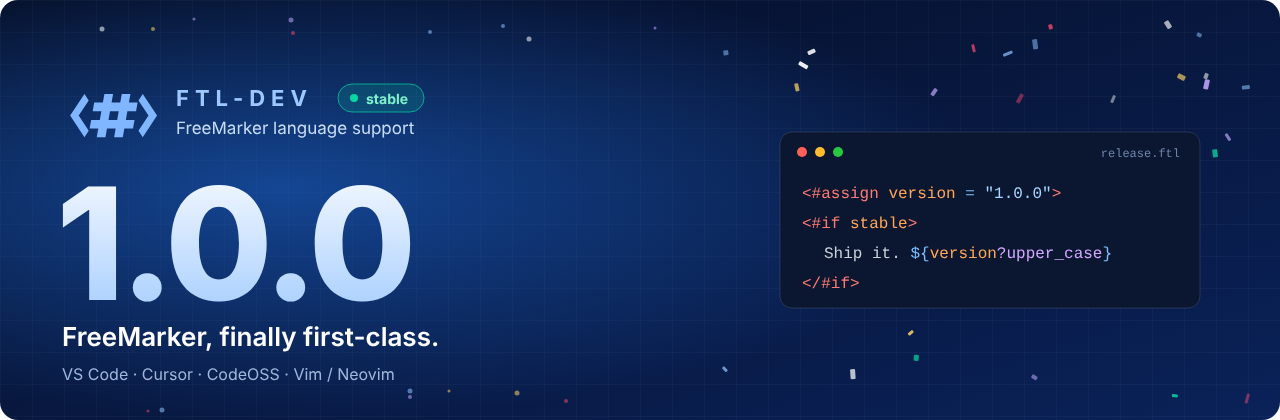
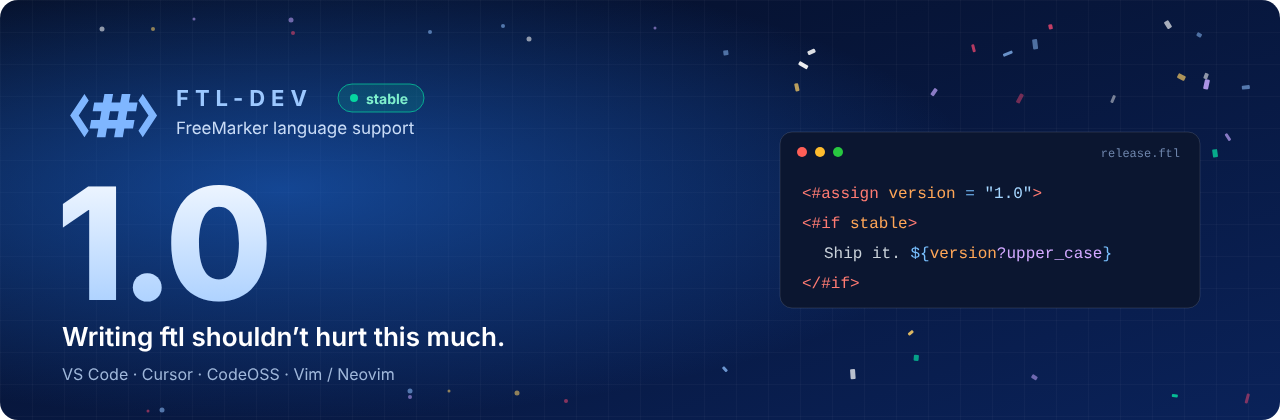
Release 1.0.1: rewrite site and README copy

Changed region(s): [[0.2188, 0.4333, 0.3438, 0.7119], [0.0312, 0.7738, 0.4062, 0.8357], [0.7812, 0.4333, 0.8438, 0.4643]]

diff --git a/site/src/index.html b/site/src/index.html
@@ -3,10 +3,10 @@
 <head>
 <meta charset="utf-8">
 <meta name="viewport" content="width=device-width, initial-scale=1">
-<title>ftl-dev — FreeMarker language support</title>
-<meta name="description" content="ftl-dev {{version}} is stable: syntax highlighting, navigation, diagnostics and ftldoc for FreeMarker in VS Code, Cursor, CodeOSS and Vim / Neovim.">
-<meta property="og:title" content="ftl-dev {{version}} — FreeMarker, finally first-class">
-<meta property="og:description" content="Highlighting, navigation, diagnostics and docs for .ftl files in VS Code, Cursor, CodeOSS and Vim / Neovim.">
+<title>ftl-dev · FreeMarker for VS Code, Cursor and Vim</title>
+<meta name="description" content="FreeMarker (.ftl) support for VS Code, Cursor, CodeOSS and Vim / Neovim: highlighting, go to definition, diagnostics and ftldoc.">
+<meta property="og:title" content="ftl-dev {{version}}: FreeMarker support for VS Code, Cursor and Vim">
+<meta property="og:description" content="Highlighting, go to definition, diagnostics and ftldoc for .ftl files.">
 <meta property="og:type" content="website">
 <meta property="og:image" content="assets/og.png">
 <meta name="twitter:card" content="summary_large_image">
@@ -101,7 +101,7 @@ img { max-width: 100%; }
 
 /* Korean: break between words, not inside them */
 [data-lang="ko"] body { word-break: keep-all; overflow-wrap: break-word; }
-[data-lang="ko"] h1 { font-size: clamp(38px, 5vw, 54px); line-height: 1.12; }
+[data-lang="ko"] h1 { font-size: clamp(34px, 4.4vw, 48px); line-height: 1.18; }
 
 /* language switch: show only the active language */
 [data-lang="en"] [lang="ko"], [data-lang="ko"] [lang="en"] { display: none !important; }
@@ -148,7 +148,7 @@ img { max-width: 100%; }
   padding: 7px 12px; border-radius: 999px;
 }
 .pill .dot { width: 7px; height: 7px; border-radius: 50%; background: var(--accent); box-shadow: 0 0 0 4px color-mix(in srgb, var(--accent) 25%, transparent); }
-h1 { font-size: clamp(40px, 6vw, 64px); line-height: 1.04; letter-spacing: -.035em; margin: 20px 0 18px; font-weight: 800; }
+h1 { font-size: clamp(38px, 5.4vw, 58px); line-height: 1.04; letter-spacing: -.035em; margin: 20px 0 18px; font-weight: 800; }
 h1 .grad { background: linear-gradient(120deg, var(--brand) 10%, var(--accent) 95%); -webkit-background-clip: text; background-clip: text; color: transparent; }
 .lede { font-size: 19px; color: var(--fg-muted); margin: 0 0 28px; max-width: 34em; }
 .ctas { display: flex; flex-wrap: wrap; gap: 10px; }
@@ -328,19 +328,19 @@ footer a { color: var(--fg-muted); }
   <section class="hero">
     <div class="wrap">
       <div>
-        <span class="pill"><span class="dot"></span><span lang="en">v{{version}} is here — first stable release</span><span lang="ko">v{{version}} 출시 — 첫 안정 버전</span></span>
-        <h1><span lang="en">FreeMarker,<br><span class="grad">finally first&#8209;class.</span></span><span lang="ko">FreeMarker도 이제<br><span class="grad">제대로 된 언어처럼.</span></span></h1>
-        <p class="lede" lang="en">Highlighting that reads, Ctrl+click navigation, diagnostics that catch real mistakes and ftldoc in every hover. For VS Code, Cursor, CodeOSS and Vim / Neovim.</p>
-        <p class="lede" lang="ko">읽기 좋은 하이라이팅, Ctrl+클릭 이동, 진짜 실수만 잡는 진단, 호버마다 보이는 ftldoc까지. VS Code, Cursor, CodeOSS, Vim / Neovim에서.</p>
+        <span class="pill"><span class="dot"></span><span lang="en">v{{version}} · 1.0 is out</span><span lang="ko">v{{version}} · 1.0 나왔습니다</span></span>
+        <h1><span lang="en">Writing ftl shouldn't <span class="grad">hurt this much.</span></span><span lang="ko">ftl 짜는 게 <span class="grad">이렇게까지 괴로울 일인가요?</span></span></h1>
+        <p class="lede" lang="en">So I built the extension I wanted: proper highlighting, Ctrl+click to definitions, errors caught before render time, ftldoc on hover, and indent that follows FTL blocks. Runs in VS Code, Cursor and CodeOSS. Vim / Neovim has its own plugin.</p>
+        <p class="lede" lang="ko">그래서 직접 만들었습니다. 제대로 된 하이라이팅, Ctrl+클릭으로 정의 이동, 렌더링 전에 잡아 주는 문법 오류, 호버로 보는 ftldoc, FTL 블록에 맞는 들여쓰기. VS Code, Cursor, CodeOSS에서 돌아가고 Vim / Neovim은 플러그인이 따로 있습니다.</p>
         <div class="ctas">
           <a class="btn primary" href="https://marketplace.visualstudio.com/items?itemName=nathan-0910.ftl-dev">
             <svg viewBox="0 0 16 16" aria-hidden="true"><path fill="currentColor" d="M8 1a.75.75 0 0 1 .75.75v6.69l2.22-2.22a.75.75 0 1 1 1.06 1.06l-3.5 3.5a.75.75 0 0 1-1.06 0l-3.5-3.5a.75.75 0 0 1 1.06-1.06l2.22 2.22V1.75A.75.75 0 0 1 8 1zM2.75 12.5a.75.75 0 0 0 0 1.5h10.5a.75.75 0 0 0 0-1.5H2.75z"/></svg>
             <span lang="en">VS Code Marketplace</span><span lang="ko">VS Code 마켓플레이스</span>
           </a>
-          <a class="btn" href="https://open-vsx.org/extension/nathan-0910/ftl-dev"><span lang="en">Open VSX (Cursor, CodeOSS)</span><span lang="ko">Open VSX (Cursor, CodeOSS)</span></a>
+          <a class="btn" href="https://open-vsx.org/extension/nathan-0910/ftl-dev">Open VSX (Cursor, CodeOSS)</a>
           <a class="btn" href="https://github.com/DevNathan/ftl-dev.vim">Vim / Neovim</a>
         </div>
-        <p class="hero-note"><span lang="en">Free and open source · Apache-2.0 · extension id</span><span lang="ko">무료 오픈소스 · Apache-2.0 · 익스텐션 ID</span> <code>nathan-0910.ftl-dev</code></p>
+        <p class="hero-note"><span lang="en">Free, Apache-2.0. Extension id</span><span lang="ko">무료, Apache-2.0. 익스텐션 ID</span> <code>nathan-0910.ftl-dev</code></p>
       </div>
       <div class="window" role="img" aria-label="FTL code highlighted by ftl-dev">
         <div class="window-bar"><i></i><i></i><i></i><span>greeting.ftl</span></div>
@@ -351,13 +351,12 @@ footer a { color: var(--fg-muted); }
 
   <section class="alt" id="stable">
     <div class="wrap">
-      <p class="eyebrow"><span lang="en">What 1.0 means</span><span lang="ko">1.0이 뜻하는 것</span></p>
-      <h2><span lang="en">Stable enough to build your workflow on.</span><span lang="ko">이제 믿고 써도 됩니다.</span></h2>
-      <p class="section-lede" lang="en">Forty-one plans, hundreds of tests and a zero-false-positive rule for default diagnostics got us here. From 1.0.0 on, these only change in a major version:</p>
-      <p class="section-lede" lang="ko">41개의 계획, 수백 개의 테스트, 그리고 "정상 문법에는 기본 진단을 띄우지 않는다"는 원칙 끝에 여기까지 왔습니다. 1.0.0부터 아래 항목은 메이저 버전에서만 바뀝니다.</p>
+      <h2><span lang="en">What 1.0 means</span><span lang="ko">1.0이 되면서 달라진 점</span></h2>
+      <p class="section-lede" lang="en">From 1.0 on I won't casually rename the things below. If one of them has to change, it comes with a major version bump and a note in the changelog first.</p>
+      <p class="section-lede" lang="ko">1.0부터는 아래 것들을 함부로 안 바꿉니다. 바꿔야 할 일이 생기면 메이저 버전 올리고, 변경 이력에 먼저 적어 둘게요.</p>
       <div class="stable-grid">
         <div class="stable-item"><b><span lang="en">Extension &amp; language id</span><span lang="ko">익스텐션·언어 ID</span></b><p><code>nathan-0910.ftl-dev</code> · <code>freemarker</code></p></div>
-        <div class="stable-item"><b><span lang="en">File types &amp; grammar</span><span lang="ko">파일 형식·문법 scope</span></b><p><code>.ftl</code> <code>.ftlh</code> <code>.ftlx</code> · <code>text.html.freemarker</code></p></div>
+        <div class="stable-item"><b><span lang="en">File types &amp; grammar scope</span><span lang="ko">파일 확장자·문법 scope</span></b><p><code>.ftl</code> <code>.ftlh</code> <code>.ftlx</code> · <code>text.html.freemarker</code></p></div>
         <div class="stable-item"><b><span lang="en">Settings keys</span><span lang="ko">설정 키</span></b><p><code>ftl-dev.strictVariables</code>, <code>ftl-dev.dataModel</code>, …</p></div>
         <div class="stable-item"><b><span lang="en">Project file</span><span lang="ko">프로젝트 파일</span></b><p><code>.ftl-data-model.json</code></p></div>
       </div>
@@ -366,58 +365,57 @@ footer a { color: var(--fg-muted); }
 
   <section id="features">
     <div class="wrap">
-      <p class="eyebrow"><span lang="en">Features</span><span lang="ko">기능</span></p>
-      <h2><span lang="en">Everything the other FTL extensions forgot.</span><span lang="ko">다른 FTL 익스텐션이 빼먹은 것들, 전부.</span></h2>
-      <p class="section-lede" lang="en">Built by someone who writes FreeMarker every day and got tired of grepping for macro definitions.</p>
-      <p class="section-lede" lang="ko">매일 FreeMarker를 쓰다가 매크로 정의를 grep으로 찾는 데 지친 사람이 만들었습니다.</p>
+      <h2><span lang="en">Features</span><span lang="ko">기능</span></h2>
+      <p class="section-lede" lang="en">Things I kept wishing for while writing ftl and couldn't find in any other extension.</p>
+      <p class="section-lede" lang="ko">ftl 짜면서 계속 아쉬웠는데 다른 익스텐션엔 없던 것들입니다.</p>
       <div class="features">
         <article class="feature">
           <div class="ico"><svg viewBox="0 0 20 20" aria-hidden="true"><path fill="none" stroke="currentColor" stroke-width="1.7" stroke-linecap="round" d="M3 5h9M3 10h14M3 15h7"/></svg></div>
-          <h3><span lang="en">Highlighting that reads</span><span lang="ko">읽히는 하이라이팅</span></h3>
-          <p lang="en">Directives, built-ins, <code>${…}</code> inside strings, raw strings, square-bracket syntax and HTML, all colored correctly.</p>
-          <p lang="ko">디렉티브, built-in, 문자열 속 <code>${…}</code>, raw 문자열, 대괄호 문법, HTML까지 제대로 칠합니다.</p>
+          <h3><span lang="en">Syntax highlighting</span><span lang="ko">하이라이팅</span></h3>
+          <p lang="en">Directives, built-ins, <code>${…}</code> inside strings, raw strings, square-bracket syntax and the HTML around them all get the right colors. No more squinting to see where a tag ends.</p>
+          <p lang="ko">디렉티브, built-in, 문자열 안의 <code>${…}</code>, raw 문자열, 대괄호 문법, 주변 HTML까지 제대로 칠합니다. 태그가 어디서 끝나는지 눈으로 더듬을 필요 없어요.</p>
         </article>
         <article class="feature">
           <div class="ico"><svg viewBox="0 0 20 20" aria-hidden="true"><path fill="none" stroke="currentColor" stroke-width="1.7" stroke-linecap="round" stroke-linejoin="round" d="M8 4H4v12h12v-4M11 3h6v6M17 3l-8 8"/></svg></div>
           <h3><span lang="en">Go to definition &amp; rename</span><span lang="ko">정의로 이동·이름 바꾸기</span></h3>
-          <p lang="en">Ctrl+click through macros, functions, variables and <code>#import</code> namespaces. F2 renames, Ctrl+T finds any symbol in the workspace.</p>
-          <p lang="ko">매크로·함수·변수·<code>#import</code> 네임스페이스로 Ctrl+클릭 이동. F2로 이름 바꾸기, Ctrl+T로 워크스페이스 심볼 검색.</p>
+          <p lang="en">Ctrl+click a macro, function, variable or <code>#import</code> namespace and you're at the declaration. F2 renames, Ctrl+T searches the whole workspace.</p>
+          <p lang="ko">매크로, 함수, 변수, <code>#import</code> 네임스페이스에서 Ctrl+클릭하면 선언으로 갑니다. 이름은 F2로 바꾸고, 워크스페이스 전체 검색은 Ctrl+T.</p>
         </article>
         <article class="feature">
           <div class="ico"><svg viewBox="0 0 20 20" aria-hidden="true"><path fill="none" stroke="currentColor" stroke-width="1.7" stroke-linecap="round" stroke-linejoin="round" d="M4 4h12v9H8l-4 3z"/></svg></div>
-          <h3><span lang="en">Completion &amp; signature help</span><span lang="ko">자동완성·시그니처 도움말</span></h3>
-          <p lang="en">Directives and built-ins up to FreeMarker 2.3.35, named directive parameters, and parameter hints for your own <code>#function</code> / <code>#macro</code>.</p>
-          <p lang="ko">FreeMarker 2.3.35까지의 디렉티브와 built-in, 디렉티브 이름 인자, 직접 만든 <code>#function</code> / <code>#macro</code> 인자 힌트까지.</p>
+          <h3><span lang="en">Completion &amp; parameter hints</span><span lang="ko">자동완성·인자 힌트</span></h3>
+          <p lang="en">Directives and built-ins up to FreeMarker 2.3.35, directive parameters, and parameter hints for your own <code>#function</code> / <code>#macro</code>.</p>
+          <p lang="ko">FreeMarker 2.3.35까지의 디렉티브와 built-in, 디렉티브 인자, 직접 만든 <code>#function</code> / <code>#macro</code>의 인자 힌트가 뜹니다.</p>
         </article>
         <article class="feature">
           <div class="ico"><svg viewBox="0 0 20 20" aria-hidden="true"><path fill="none" stroke="currentColor" stroke-width="1.7" stroke-linecap="round" stroke-linejoin="round" d="M10 3l8 14H2zM10 8v4M10 14.5v.01"/></svg></div>
-          <h3><span lang="en">Diagnostics that don't cry wolf</span><span lang="ko">헛경고 없는 진단</span></h3>
-          <p lang="en">Unclosed tags, mismatched blocks, <code>#switch</code> mistakes, deprecated directives. Valid FTL never gets a red line.</p>
-          <p lang="ko">닫히지 않은 태그, 짝이 안 맞는 블록, <code>#switch</code> 실수, deprecated 디렉티브. 올바른 FTL엔 빨간 줄이 생기지 않습니다.</p>
+          <h3><span lang="en">Diagnostics</span><span lang="ko">문법 검사</span></h3>
+          <p lang="en">Unclosed tags, mismatched blocks, <code>#switch</code> mistakes, deprecated directives. If valid FTL gets a red line, that's a bug. Please tell me.</p>
+          <p lang="ko">안 닫힌 태그, 짝 안 맞는 블록, <code>#switch</code> 실수, deprecated 디렉티브를 잡습니다. 멀쩡한 FTL에 빨간 줄이 뜨면 버그니까 알려 주세요.</p>
         </article>
         <article class="feature">
           <div class="ico"><svg viewBox="0 0 20 20" aria-hidden="true"><path fill="none" stroke="currentColor" stroke-width="1.7" stroke-linecap="round" stroke-linejoin="round" d="M5 3h7l3 3v11H5zM8 9h5M8 12h5"/></svg></div>
-          <h3><span lang="en">ftldoc</span><span lang="ko">ftldoc 문서 주석</span></h3>
-          <p lang="en">Javadoc / JSDoc-style comments with <code>@param</code>, <code>@return</code>, <code>@deprecated</code>, <code>@example</code> in Hover, Signature Help and completion.</p>
-          <p lang="ko"><code>@param</code>, <code>@return</code>, <code>@deprecated</code>, <code>@example</code> 등 Javadoc / JSDoc 스타일 주석을 호버·시그니처 도움말·자동완성에 보여 줍니다.</p>
+          <h3>ftldoc</h3>
+          <p lang="en">Write Javadoc-style comments (<code>@param</code>, <code>@return</code>, <code>@deprecated</code>, <code>@example</code>, …) and they show up in hover, parameter hints and completion.</p>
+          <p lang="ko"><code>@param</code>, <code>@return</code>, <code>@deprecated</code>, <code>@example</code> 같은 Javadoc식 주석을 달면 호버, 인자 힌트, 자동완성에 그대로 나옵니다.</p>
         </article>
         <article class="feature">
           <div class="ico"><svg viewBox="0 0 20 20" aria-hidden="true"><path fill="none" stroke="currentColor" stroke-width="1.7" stroke-linecap="round" stroke-linejoin="round" d="M7 5L3 10l4 5M13 5l4 5-4 5"/></svg></div>
-          <h3><span lang="en">Typing that keeps up</span><span lang="ko">손이 덜 가는 편집</span></h3>
-          <p lang="en">Auto-close for directives, FTL-aware indent, and linked editing: rename <code>&lt;#if&gt;</code> and <code>&lt;/#if&gt;</code> follows.</p>
-          <p lang="ko">디렉티브 자동 닫기, FTL식 들여쓰기, 연결 편집: <code>&lt;#if&gt;</code>를 고치면 <code>&lt;/#if&gt;</code>도 따라 바뀝니다.</p>
+          <h3><span lang="en">Closing tags &amp; indent</span><span lang="ko">태그 닫기·들여쓰기</span></h3>
+          <p lang="en">Closing tags get filled in for you, indent follows FTL blocks, and renaming <code>&lt;#if&gt;</code> renames its <code>&lt;/#if&gt;</code> too.</p>
+          <p lang="ko">닫는 태그는 알아서 채워 주고, 들여쓰기는 FTL 블록 기준으로 맞춥니다. <code>&lt;#if&gt;</code> 이름을 고치면 <code>&lt;/#if&gt;</code>도 같이 바뀝니다.</p>
         </article>
         <article class="feature">
           <div class="ico"><svg viewBox="0 0 20 20" aria-hidden="true"><path fill="none" stroke="currentColor" stroke-width="1.7" stroke-linecap="round" d="M4 5h3M4 10h3M4 15h3M10 5h6M10 10h6M10 15h6"/></svg></div>
           <h3><span lang="en">Outline &amp; references</span><span lang="ko">아웃라인·참조 찾기</span></h3>
-          <p lang="en">Document outline, find all references, semantic tokens for locals and parameters, optional strict-variable checks.</p>
-          <p lang="ko">문서 아웃라인, 모든 참조 찾기, 지역 변수·인자 시맨틱 토큰, 선택형 엄격 변수 검사.</p>
+          <p lang="en">Document outline, find all references, separate colors for locals and parameters. Turn on strict mode if you want warnings for undeclared variables.</p>
+          <p lang="ko">문서 아웃라인, 모든 참조 찾기, 지역 변수와 인자 구분 색. 선언 안 된 변수까지 경고받고 싶으면 strict 모드를 켜세요.</p>
         </article>
         <article class="feature">
           <div class="ico"><svg viewBox="0 0 20 20" aria-hidden="true"><path fill="none" stroke="currentColor" stroke-width="1.7" stroke-linecap="round" stroke-linejoin="round" d="M3 4h14v10H3zM7 17h6"/></svg></div>
           <h3>Vim / Neovim</h3>
-          <p lang="en">A native Vim plugin for syntax, indent and closing tags. Neovim can also run the ftl-dev language server for Hover, completion and diagnostics.</p>
-          <p lang="ko">문법·들여쓰기·태그 닫기는 Vim 플러그인으로. Neovim에서는 ftl-dev 언어 서버를 붙여 호버·자동완성·진단도 쓸 수 있습니다.</p>
+          <p lang="en">A separate plugin, <a href="https://github.com/DevNathan/ftl-dev.vim">ftl-dev.vim</a>, handles syntax, indent and closing tags. On Neovim you can also hook up the ftl-dev language server for hover, completion and diagnostics.</p>
+          <p lang="ko">문법, 들여쓰기, 태그 닫기는 별도 플러그인 <a href="https://github.com/DevNathan/ftl-dev.vim">ftl-dev.vim</a>이 맡습니다. Neovim이면 ftl-dev 언어 서버를 붙여서 호버, 자동완성, 진단도 쓸 수 있어요.</p>
         </article>
       </div>
     </div>
@@ -426,15 +424,14 @@ footer a { color: var(--fg-muted); }
   <section class="alt" id="diagnostics">
     <div class="wrap split rev">
       <div>
-        <p class="eyebrow"><span lang="en">Hover &amp; diagnostics</span><span lang="ko">호버와 진단</span></p>
-        <h2><span lang="en">Know before FreeMarker tells you.</span><span lang="ko">FreeMarker가 터지기 전에 먼저 압니다.</span></h2>
-        <p class="section-lede" lang="en">Errors that FreeMarker would only throw at render time show up as you type, in the same words a teammate would use.</p>
-        <p class="section-lede" lang="ko">렌더링할 때야 터질 에러를 타이핑하는 순간 보여 줍니다. 동료가 말해 주듯 알아듣기 쉬운 말로요.</p>
+        <h2><span lang="en">Diagnostics and hover</span><span lang="ko">진단과 호버</span></h2>
+        <p class="section-lede" lang="en">Some mistakes FreeMarker only reports when it renders the template. These show up while you type.</p>
+        <p class="section-lede" lang="ko">FreeMarker가 렌더링할 때가 돼서야 던지는 에러가 있습니다. 그런 걸 치는 동안 바로 보여 줍니다.</p>
         <ul class="checks">
-          <li lang="en"><span><b>Matches the engine</b>: mixing <code>#on</code> and <code>#case</code> is a ParseException in FreeMarker 2.3.34, and an error here.</span></li>
-          <li lang="ko"><span><b>엔진과 같은 판단</b>: <code>#on</code>과 <code>#case</code>를 섞으면 FreeMarker 2.3.34에서 ParseException이고, 여기서도 에러입니다.</span></li>
-          <li lang="en"><span><b>Docs where you need them</b>: hover a call to see its ftldoc, parameters and defaults.</span></li>
-          <li lang="ko"><span><b>필요한 자리에 문서</b>: 호출부에 마우스를 올리면 ftldoc, 인자, 기본값이 보입니다.</span></li>
+          <li lang="en"><span>Mixing <code>#on</code> and <code>#case</code> in one <code>#switch</code> is a ParseException in FreeMarker 2.3.34. Here you get a red line before you even save.</span></li>
+          <li lang="ko"><span><code>#switch</code> 하나에 <code>#on</code>과 <code>#case</code>를 섞으면 FreeMarker 2.3.34에선 ParseException입니다. 여기선 저장하기도 전에 빨간 줄이 뜹니다.</span></li>
+          <li lang="en"><span>Hover a call to see its ftldoc, parameters and defaults.</span></li>
+          <li lang="ko"><span>호출하는 곳에 마우스를 올리면 ftldoc, 인자, 기본값이 보입니다.</span></li>
         </ul>
       </div>
       <div class="stack">
@@ -462,27 +459,26 @@ footer a { color: var(--fg-muted); }
 
   <section id="install">
     <div class="wrap">
-      <p class="eyebrow"><span lang="en">Install</span><span lang="ko">설치</span></p>
-      <h2><span lang="en">Thirty seconds, tops.</span><span lang="ko">30초면 끝.</span></h2>
-      <p class="section-lede" lang="en">Pick your editor. Open any <code>.ftl</code>, <code>.ftlh</code> or <code>.ftlx</code> file and you're done.</p>
-      <p class="section-lede" lang="ko">에디터만 고르세요. <code>.ftl</code>, <code>.ftlh</code>, <code>.ftlx</code> 파일을 열면 끝입니다.</p>
+      <h2><span lang="en">Install</span><span lang="ko">설치</span></h2>
+      <p class="section-lede" lang="en">Not much to it. Install it in your editor and open a <code>.ftl</code>, <code>.ftlh</code> or <code>.ftlx</code> file.</p>
+      <p class="section-lede" lang="ko">할 게 뭐 있겠습니까. 에디터에 설치하고 <code>.ftl</code>, <code>.ftlh</code>, <code>.ftlx</code> 파일을 열면 됩니다.</p>
       <div class="install-grid">
         <div class="install">
           <h3>VS Code</h3>
-          <p lang="en">From the Visual Studio Marketplace, or run in Quick Open (Ctrl+P):</p>
-          <p lang="ko">Visual Studio 마켓플레이스에서 받거나, Quick Open(Ctrl+P)에서 실행:</p>
+          <p lang="en">Get it from the Visual Studio Marketplace, or paste this into Quick Open (Ctrl+P):</p>
+          <p lang="ko">Visual Studio 마켓플레이스에서 받거나, Quick Open(Ctrl+P)에 이걸 붙여 넣으세요.</p>
           <div class="cmd"><code>ext install nathan-0910.ftl-dev</code><button class="copy" type="button">Copy</button></div>
         </div>
         <div class="install">
           <h3>Cursor · CodeOSS</h3>
-          <p lang="en">From Open VSX: search <b>FreeMarker (ftl-dev)</b> in the Extensions view, or:</p>
-          <p lang="ko">Open VSX에서: 확장 보기에서 <b>FreeMarker (ftl-dev)</b>를 검색하거나:</p>
+          <p lang="en">It's on Open VSX. Search <b>FreeMarker (ftl-dev)</b> in the Extensions view, or:</p>
+          <p lang="ko">Open VSX에 있습니다. 확장 탭에서 <b>FreeMarker (ftl-dev)</b>를 검색하거나:</p>
           <div class="cmd"><code>code-oss --install-extension nathan-0910.ftl-dev</code><button class="copy" type="button">Copy</button></div>
         </div>
         <div class="install">
           <h3>Vim / Neovim</h3>
-          <p lang="en">Install the plugin with your plugin manager, e.g. vim-plug:</p>
-          <p lang="ko">플러그인 매니저로 설치하세요. 예: vim-plug</p>
+          <p lang="en">Use your plugin manager. With vim-plug:</p>
+          <p lang="ko">플러그인 매니저로 설치하세요. vim-plug라면:</p>
           <div class="cmd"><code>Plug 'DevNathan/ftl-dev.vim'</code><button class="copy" type="button">Copy</button></div>
         </div>
       </div>
@@ -491,13 +487,13 @@ footer a { color: var(--fg-muted); }
 
   <section class="alt thanks">
     <div class="wrap">
-      <h2><span lang="en">Thanks for writing FreeMarker with us. 🎉</span><span lang="ko">FreeMarker와 함께해 주셔서 고맙습니다. 🎉</span></h2>
-      <p lang="en">Found a false positive, a missing built-in or an ugly color? Open an issue. Valid FTL getting flagged is always a bug.</p>
-      <p lang="ko">헛경고, 빠진 built-in, 이상한 색을 발견하셨나요? 이슈로 알려 주세요. 올바른 FTL에 경고가 뜨면 언제나 버그입니다.</p>
+      <h2><span lang="en">Found a bug?</span><span lang="ko">버그 찾으셨나요?</span></h2>
+      <p lang="en">Open an issue. A red line on valid FTL, a missing built-in, an ugly color: all bugs. And if ftl-dev saves you some pain, a star on GitHub would be nice :)</p>
+      <p lang="ko">이슈로 남겨 주세요. 멀쩡한 FTL에 뜬 빨간 줄, 빠진 built-in, 이상한 색 전부 버그입니다. 쓸 만하다 싶으면 GitHub 별 하나 눌러 주시면 좋고요 :)</p>
       <div class="ctas">
-        <a class="btn primary" href="https://github.com/DevNathan/ftl-dev"><span lang="en">Star on GitHub</span><span lang="ko">GitHub에서 Star</span></a>
-        <a class="btn" href="https://github.com/DevNathan/ftl-dev/blob/main/extension/CHANGELOG.md"><span lang="en">Read the changelog</span><span lang="ko">변경 이력 보기</span></a>
-        <button class="btn" type="button" id="celebrate"><span lang="en">Celebrate again</span><span lang="ko">한 번 더 축하하기</span></button>
+        <a class="btn primary" href="https://github.com/DevNathan/ftl-dev/issues"><span lang="en">Open an issue</span><span lang="ko">이슈 남기기</span></a>
+        <a class="btn" href="https://github.com/DevNathan/ftl-dev"><span lang="en">Star on GitHub</span><span lang="ko">GitHub에서 별 주기</span></a>
+        <button class="btn" type="button" id="celebrate"><span lang="en">More confetti</span><span lang="ko">컨페티 한 번 더</span></button>
       </div>
     </div>
   </section>

diff --git a/docs/product/requirements-status.md b/docs/product/requirements-status.md
@@ -2,7 +2,7 @@
 
 - Date: 2026-10-22
 - Against: [vision.md](vision.md), [ADR 0001](../decisions/0001-codeoss-language-stack.md), [ADR 0002](../decisions/0002-undeclared-vs-datamodel.md), [ADR 0003](../decisions/0003-comparison-operator-presentation.md)
-- Extension: `1.0.0` (first stable, 2026-10-28) — plans **0001–0015** completed (macro/function nesting and `#local` scope diagnostics — plan **0015**); Wave 2 **Context Analyzer** shipped (plan **0021**, behavior-preserving); same-file **Rename Symbol** (F2) (plan **0022**); **Workspace Symbol** (Ctrl+T) (plan **0023**); directive named-param completion + attribute-name highlight (plan **0024**); camelCase aliases + boolean `true`/`false` value-slot completions (plan **0026**); per-param one-liner completion docs + unknown named-param warnings for `#ftl`/`#setting`/`#include` (plan **0027**; closes **0026** AC13); Signature Help for `#function` / `#macro` plus expanded builtin `?name(…)` catalog (plans **0028** / **0032b**); opt-in **`strictVariables`** + `dataModel` allowlist (ADR 0002 layer B MVP — plan **0029**); project file `.ftl-data-model.json` `{ roots }` + optional `templates` path/prefix/glob (plans **0031** / **0032b**); Hover on known `#ftl`/`#setting`/`#include` named-param LHS + clause-keyword Hover `as`/`in`/`using` + locale/charset/format value catalogs (plans **0030** / **0032a**); LSP Hover parity + vim `ftlNamedParam` highlight; VS Code→LanguageClient CLOSED deferred-with-trigger (plan **0032c** / ADR 0005); nested FTL comments (incl. comments inside directives / hash literals — plan 0014); Vim plugin tree + docs ([matrix](vim-neovim-matrix.md)); comparison presentation opt-in (default off; not in Vim port); npm-only build hygiene + LF `.gitattributes` (plan **0033**); self-close `/` default-allow with precise denies (plan **0034**); linked tag-name editing for paired FTL tags, VS Code only (plans **0035** / **0036**); ftldoc Javadoc / JSDoc parity — multi-line / custom / JSDoc / inline tags in Hover, Signature Help and completion, LSP Hover parity, `@param` validation (plan **0038**); `${…}` inside quoted strings highlighted like JS template expressions, raw strings, semantic tokens limited to FTL code regions (plan **0039**); no false structure errors on `#items` / `#sep` / list `#else` / `#noparse` / `..<` (plan **0040**); SQL highlighting in `sql…`-named or `@lang sql`-marked capture assignments (plan **0041**)
+- Extension: `1.0.1` (1.0.0 first stable, 2026-10-28) — plans **0001–0015** completed (macro/function nesting and `#local` scope diagnostics — plan **0015**); Wave 2 **Context Analyzer** shipped (plan **0021**, behavior-preserving); same-file **Rename Symbol** (F2) (plan **0022**); **Workspace Symbol** (Ctrl+T) (plan **0023**); directive named-param completion + attribute-name highlight (plan **0024**); camelCase aliases + boolean `true`/`false` value-slot completions (plan **0026**); per-param one-liner completion docs + unknown named-param warnings for `#ftl`/`#setting`/`#include` (plan **0027**; closes **0026** AC13); Signature Help for `#function` / `#macro` plus expanded builtin `?name(…)` catalog (plans **0028** / **0032b**); opt-in **`strictVariables`** + `dataModel` allowlist (ADR 0002 layer B MVP — plan **0029**); project file `.ftl-data-model.json` `{ roots }` + optional `templates` path/prefix/glob (plans **0031** / **0032b**); Hover on known `#ftl`/`#setting`/`#include` named-param LHS + clause-keyword Hover `as`/`in`/`using` + locale/charset/format value catalogs (plans **0030** / **0032a**); LSP Hover parity + vim `ftlNamedParam` highlight; VS Code→LanguageClient CLOSED deferred-with-trigger (plan **0032c** / ADR 0005); nested FTL comments (incl. comments inside directives / hash literals — plan 0014); Vim plugin tree + docs ([matrix](vim-neovim-matrix.md)); comparison presentation opt-in (default off; not in Vim port); npm-only build hygiene + LF `.gitattributes` (plan **0033**); self-close `/` default-allow with precise denies (plan **0034**); linked tag-name editing for paired FTL tags, VS Code only (plans **0035** / **0036**); ftldoc Javadoc / JSDoc parity — multi-line / custom / JSDoc / inline tags in Hover, Signature Help and completion, LSP Hover parity, `@param` validation (plan **0038**); `${…}` inside quoted strings highlighted like JS template expressions, raw strings, semantic tokens limited to FTL code regions (plan **0039**); no false structure errors on `#items` / `#sep` / list `#else` / `#noparse` / `..<` (plan **0040**); SQL highlighting in `sql…`-named or `@lang sql`-marked capture assignments (plan **0041**)
 - Verification: `cd extension && npm test` (grammar + unit) passing
 
 ## Verdict

diff --git a/README.md b/README.md
@@ -1,5 +1,5 @@
 <p align="center">
-  <a href="https://devnathan.github.io/ftl-dev/"><img src="site/assets/banner.svg" alt="ftl-dev 1.0.0 — FreeMarker, finally first-class" width="100%"></a>
+  <a href="https://devnathan.github.io/ftl-dev/"><img src="site/assets/banner.svg" alt="ftl-dev 1.0: FreeMarker language support" width="100%"></a>
 </p>
 
 <p align="center">
@@ -13,10 +13,9 @@
 # FTL-dev
 
 > [!TIP]
-> 🎉 **ftl-dev 1.0.0 is out — the first stable release.**
-> 41 plans and hundreds of tests later, FreeMarker finally feels like a real language in your editor: highlighting that reads, Ctrl+click navigation, diagnostics that only flag real mistakes, and ftldoc in every hover. So: one-point-oh.
-> From here on, the extension id, language id, settings keys and `.ftl-data-model.json` only change in a major version ([stability contract](docs/versioning.md#stability-contract-from-100)).
-> **[See the project page →](https://devnathan.github.io/ftl-dev/)** · [What's new in 1.0.0](extension/CHANGELOG.md)
+> **1.0 is out.** It's been stable for a while now, so I'm calling it.
+> From here on I won't rename the extension id, language id, settings keys or `.ftl-data-model.json` without a major version bump ([details](docs/versioning.md#stability-contract-from-100)).
+> [Project page](https://devnathan.github.io/ftl-dev/) · [Changelog](extension/CHANGELOG.md)
 
 Did you know FreeMarker (ftl for short) can be used as a real programming language? ftl is faster than light (okay, heavily exaggerated), and while it is less extensible than mainstream languages, it is not exactly *insufficient*. Anyway, people barely use ftl, so of course there was no decent all-in-one extension.
 

diff --git a/README.ko.md b/README.ko.md
@@ -1,5 +1,5 @@
 <p align="center">
-  <a href="https://devnathan.github.io/ftl-dev/"><img src="site/assets/banner.svg" alt="ftl-dev 1.0.0 — FreeMarker, finally first-class" width="100%"></a>
+  <a href="https://devnathan.github.io/ftl-dev/"><img src="site/assets/banner.svg" alt="ftl-dev 1.0: FreeMarker language support" width="100%"></a>
 </p>
 
 <p align="center">
@@ -13,10 +13,9 @@
 # FTL-dev
 
 > [!TIP]
-> 🎉 **ftl-dev 1.0.0 출시 — 첫 안정 버전입니다.**
-> 41개의 계획과 수백 개의 테스트 끝에, 이제 에디터에서 FreeMarker를 진짜 언어처럼 쓸 수 있습니다. 읽기 좋은 하이라이팅, Ctrl+클릭 이동, 진짜 실수만 잡는 진단, 호버마다 보이는 ftldoc까지. 그래서 1.0을 냅니다.
-> 앞으로 익스텐션 ID, 언어 ID, 설정 키, `.ftl-data-model.json`은 메이저 버전에서만 바뀝니다([안정성 약속](docs/versioning.ko.md)).
-> **[프로젝트 페이지 보기 →](https://devnathan.github.io/ftl-dev/)** · [1.0.0 변경 내용](extension/CHANGELOG.md)
+> **1.0 나왔습니다.** 한동안 별 탈 없이 잘 굴러가서 이제 1.0 달아도 되겠다 싶었어요.
+> 앞으로 익스텐션 ID, 언어 ID, 설정 키, `.ftl-data-model.json`은 메이저 버전 올릴 때만 바꿉니다([자세히](docs/versioning.ko.md)).
+> [프로젝트 페이지](https://devnathan.github.io/ftl-dev/) · [변경 이력](extension/CHANGELOG.md)
 
 > Canonical: [README.md](README.md) (English).
 

diff --git a/extension/README.md b/extension/README.md
@@ -1,10 +1,10 @@
 <p align="center">
-  <a href="https://devnathan.github.io/ftl-dev/"><img src="https://raw.githubusercontent.com/DevNathan/ftl-dev/main/site/assets/og.png" alt="ftl-dev 1.0.0 — FreeMarker, finally first-class" width="100%"></a>
+  <a href="https://devnathan.github.io/ftl-dev/"><img src="https://raw.githubusercontent.com/DevNathan/ftl-dev/main/site/assets/og.png" alt="ftl-dev 1.0: FreeMarker language support" width="100%"></a>
 </p>
 
 # FTL-dev
 
-> 🎉 **1.0.0 is out — the first stable release.** The extension id, language id and settings keys are now stable. [Project page](https://devnathan.github.io/ftl-dev/) · [What's new](CHANGELOG.md)
+> **1.0 is out.** From here on the extension id, language id and settings keys only change with a major version. [Project page](https://devnathan.github.io/ftl-dev/) · [Changelog](CHANGELOG.md)
 
 Did you know FreeMarker (ftl for short) can be used as a real programming language? ftl is faster than light (okay, heavily exaggerated), and while it is less extensible than mainstream languages, it is not exactly *insufficient*. Anyway, people barely use ftl, so of course there was no decent all-in-one extension.
 

diff --git a/extension/CHANGELOG.md b/extension/CHANGELOG.md
@@ -6,6 +6,12 @@ The format is based on [Keep a Changelog](https://keepachangelog.com/), and this
 
 ## [Unreleased]
 
+## [1.0.1] - 2026-10-28
+
+### Changed
+
+- Marketplace README: rewrote the 1.0 announcement in plain words and updated the banner
+
 ## [1.0.0] - 2026-10-28
 
 First stable release. From here on the extension id, language id, file extensions, grammar scope name, settings keys, `.ftl-data-model.json` and icon theme id only change in a major version ([stability contract](../docs/versioning.md#stability-contract-from-100)).
